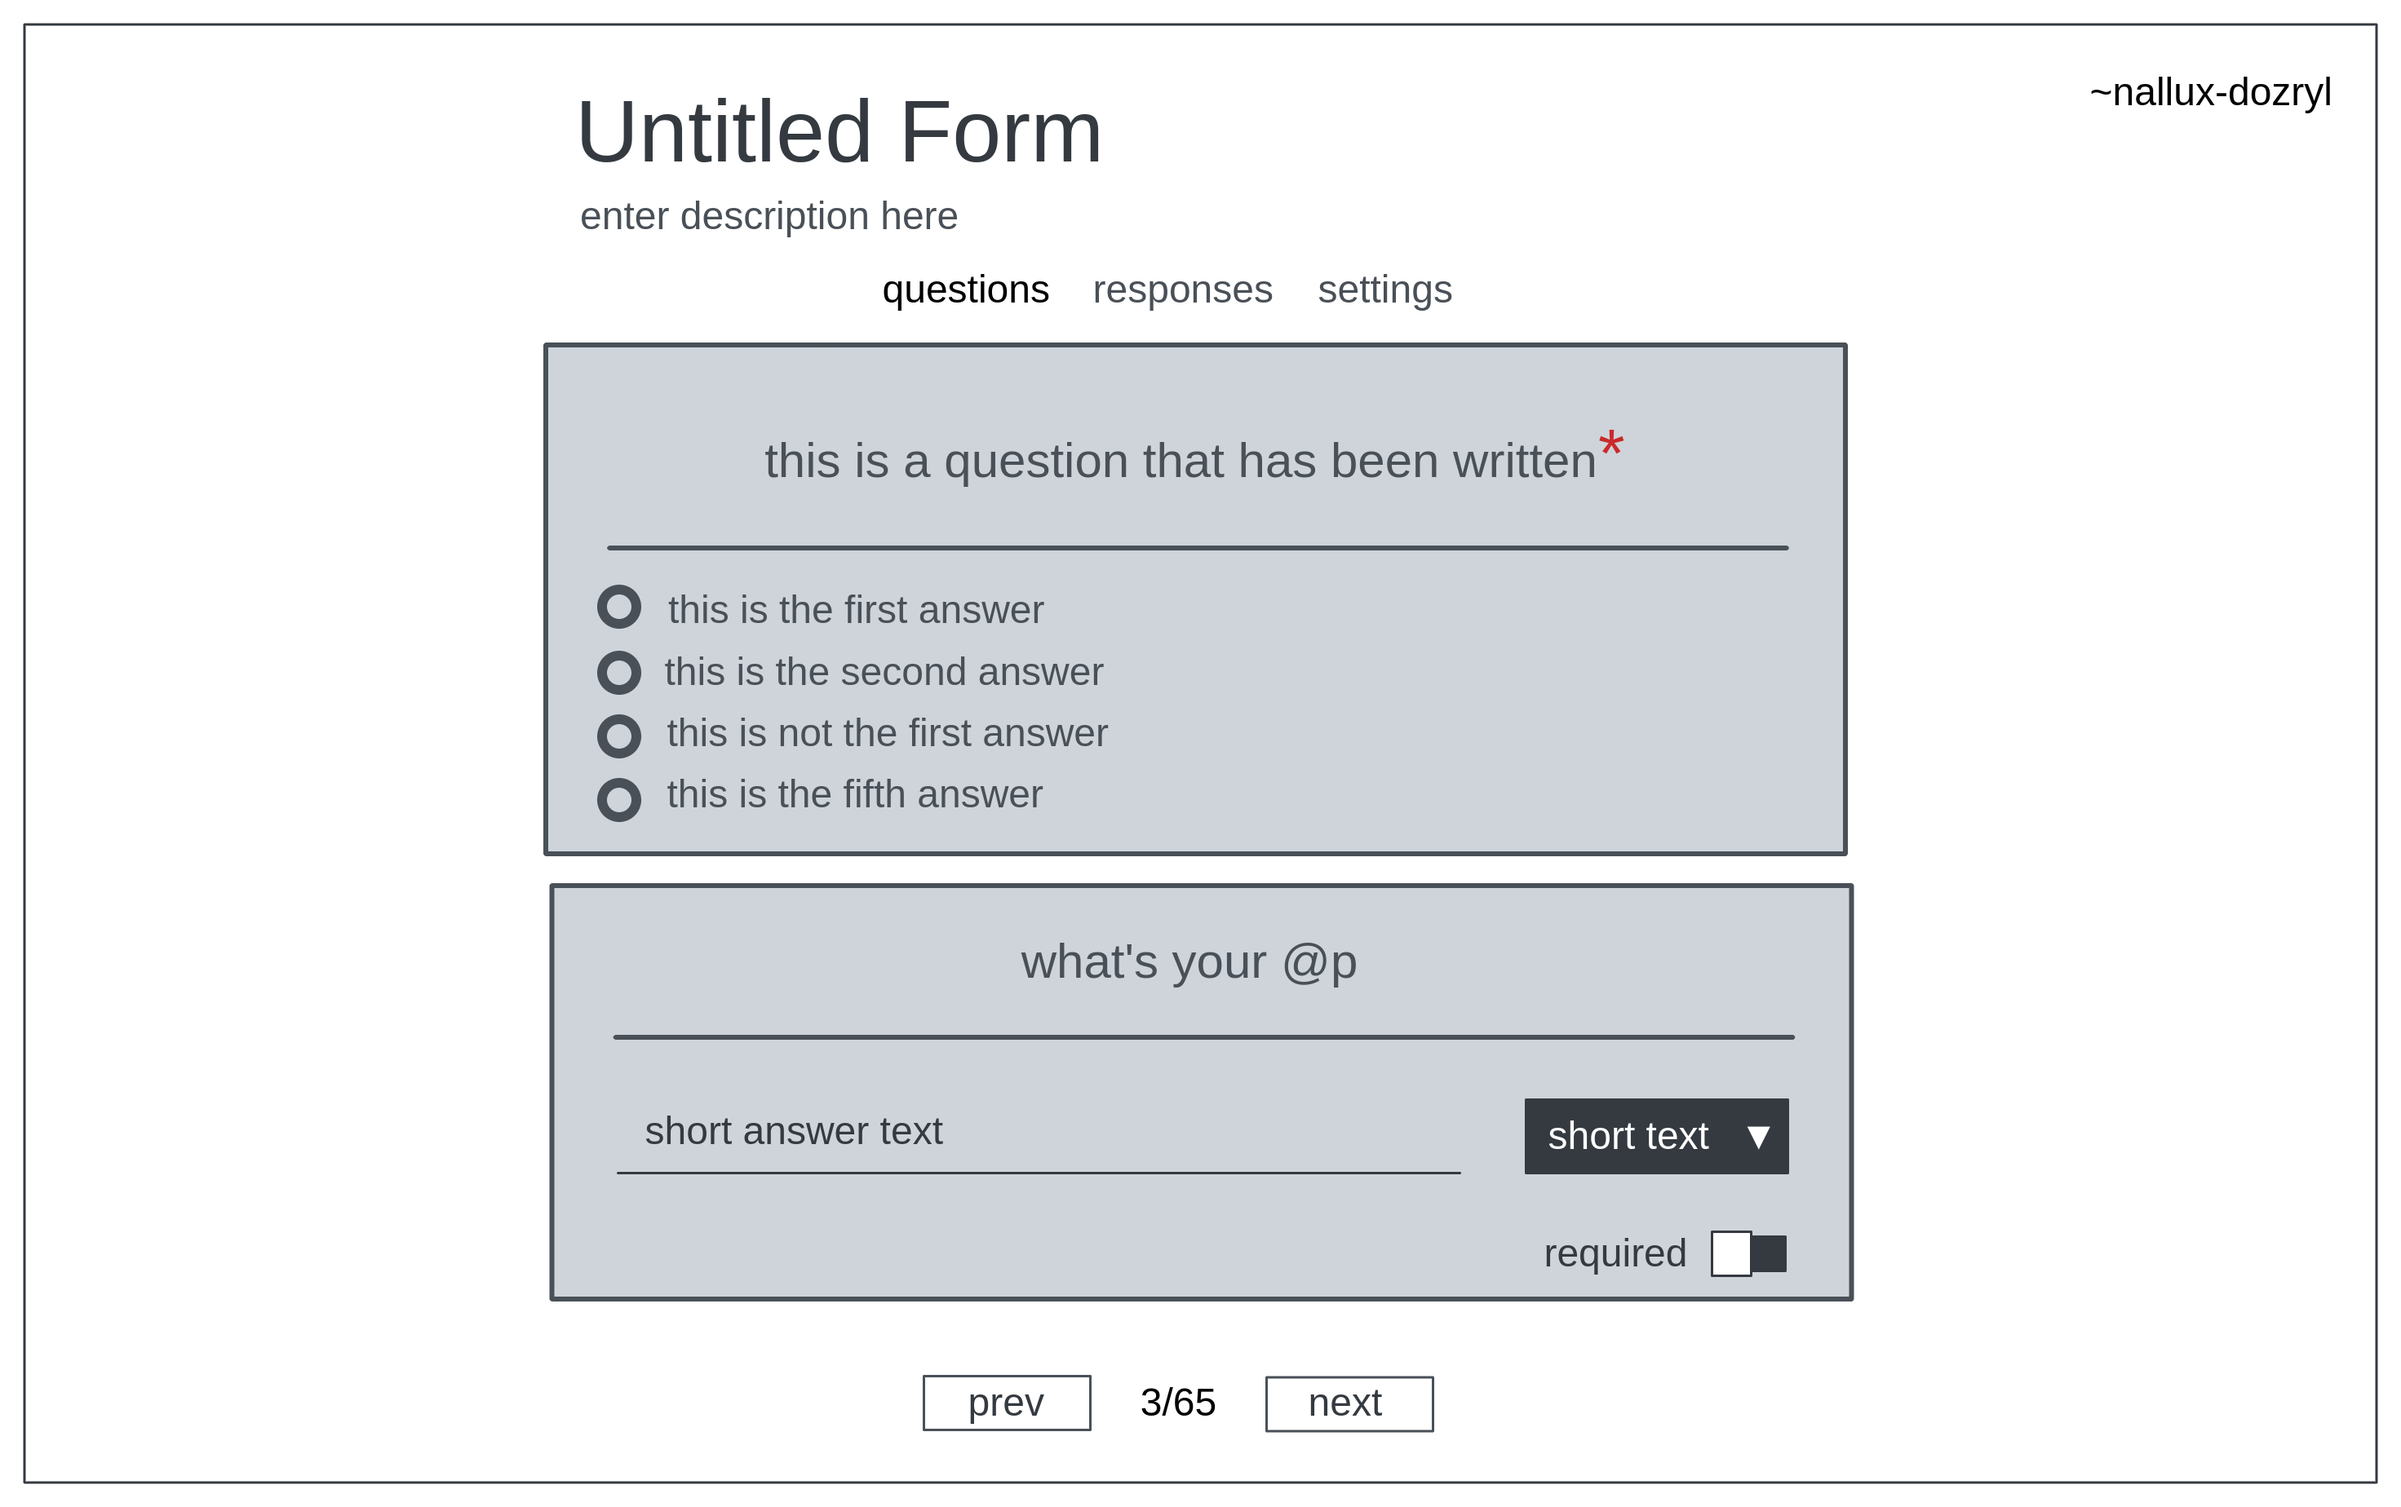
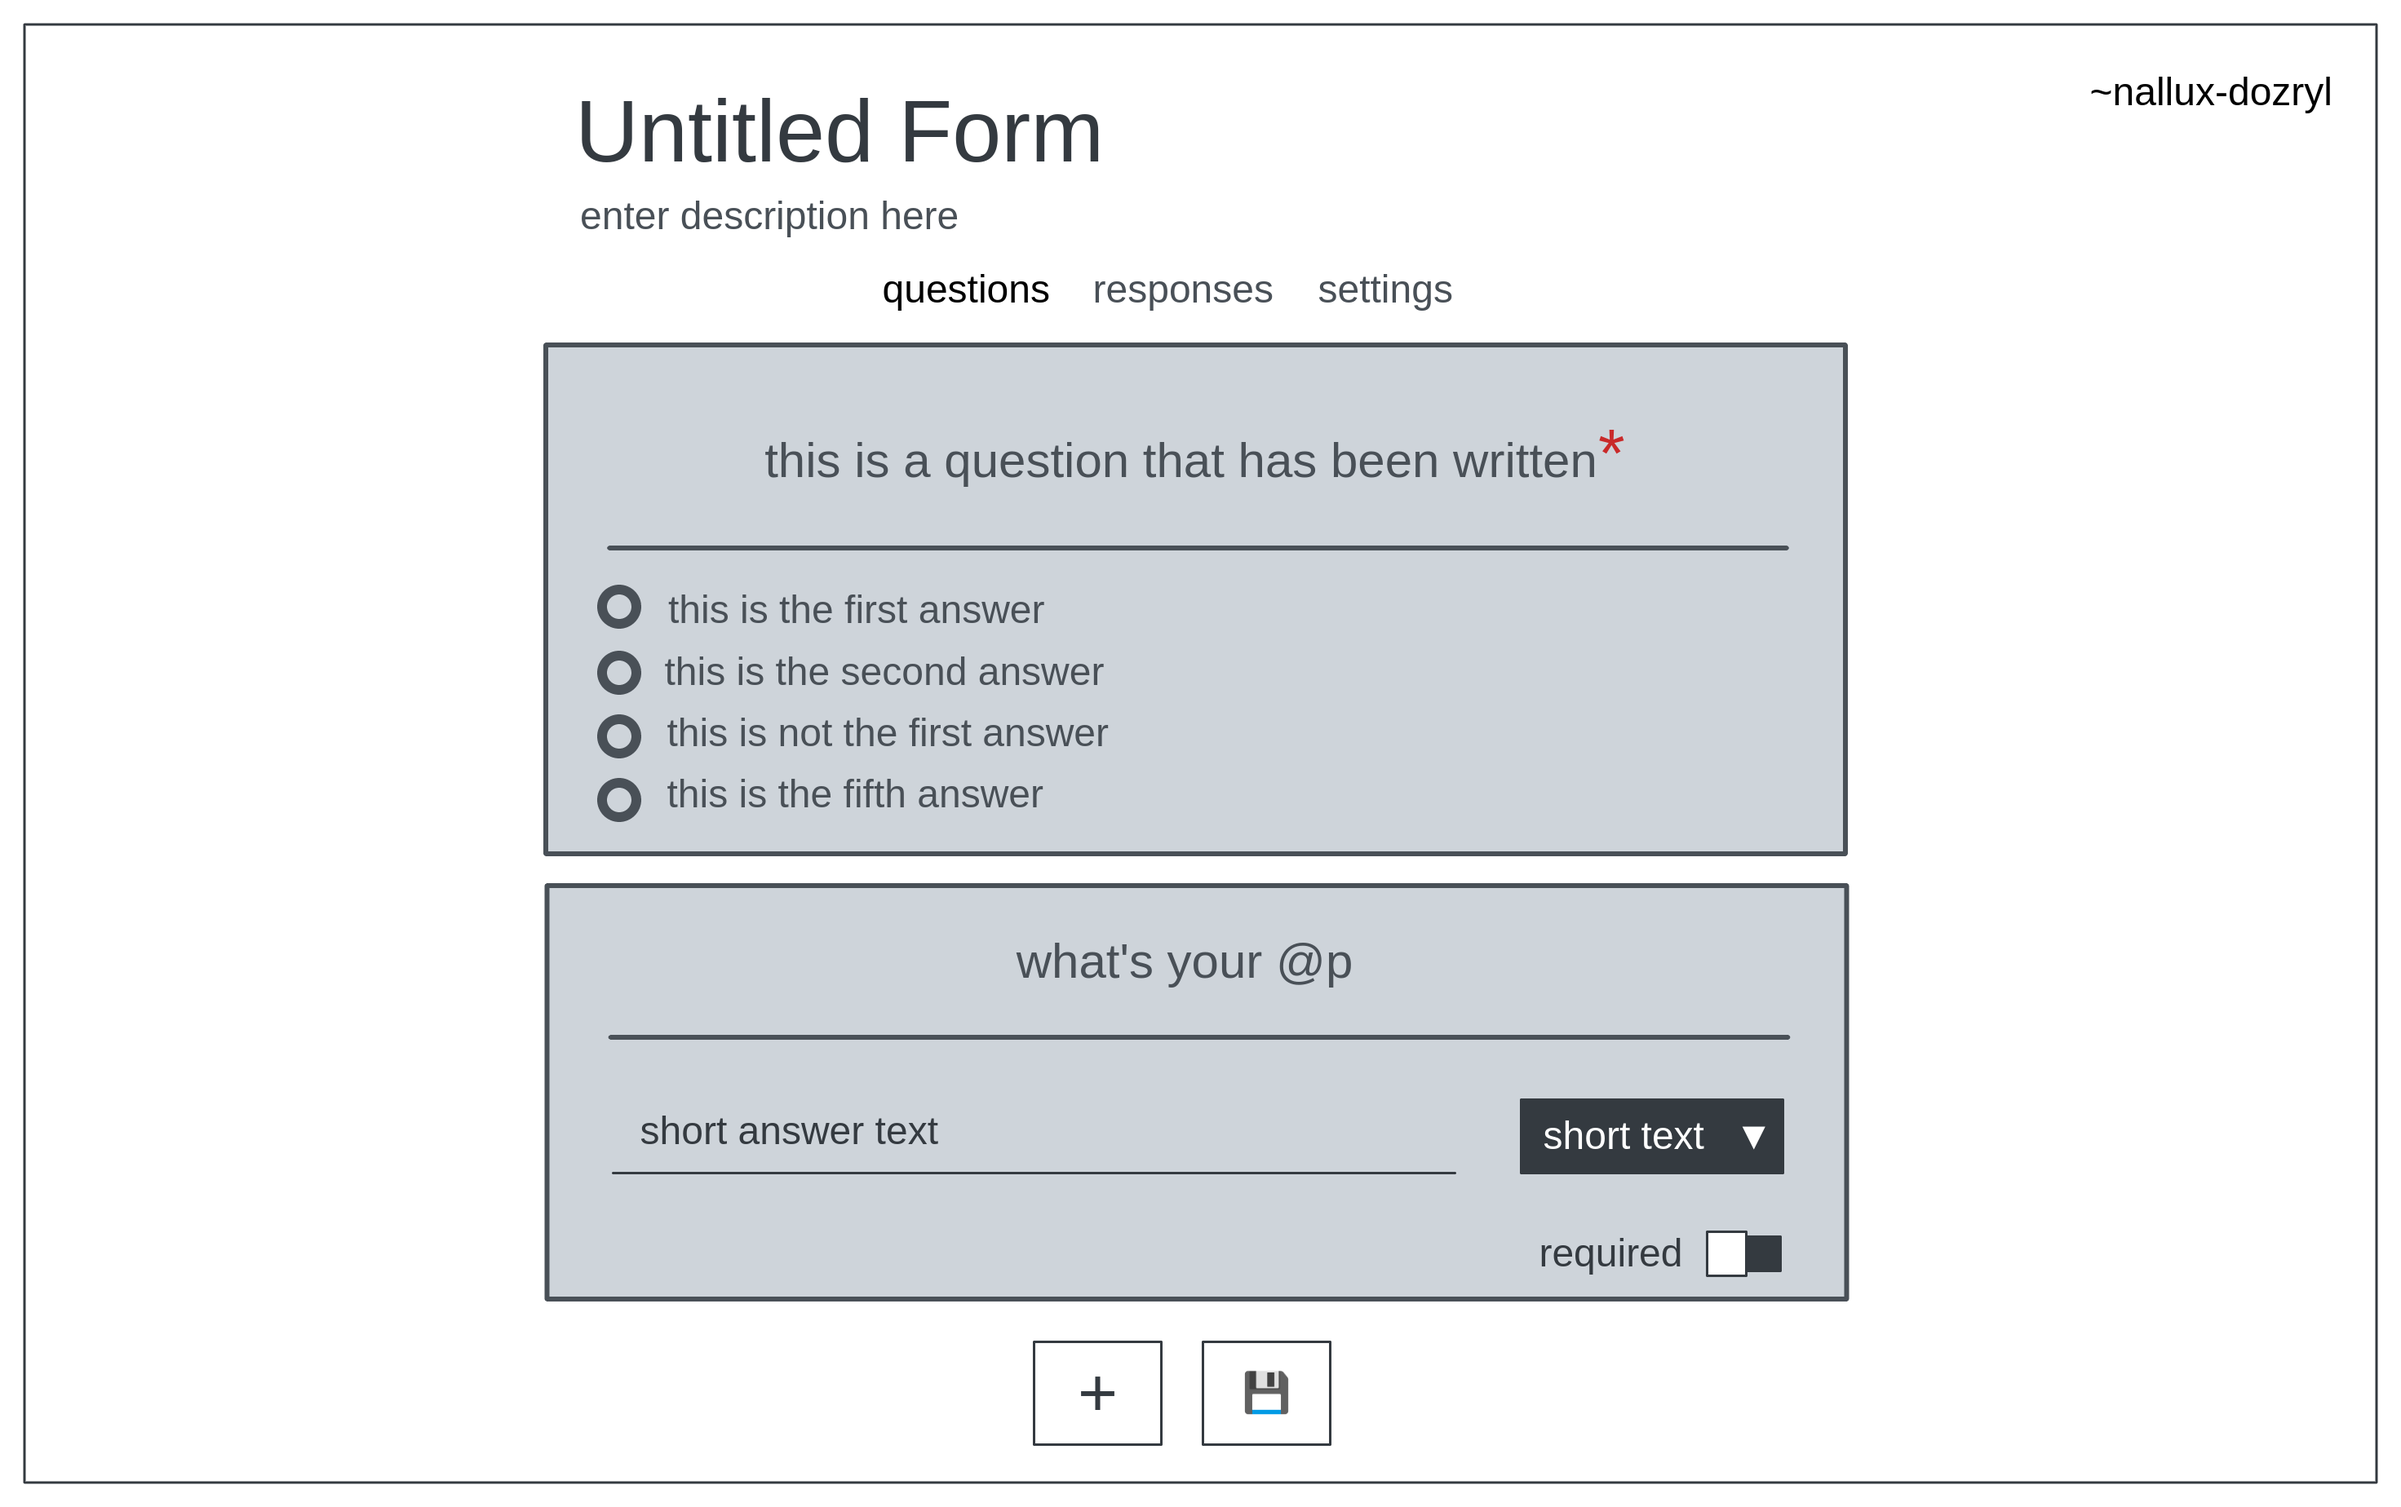
updated README

diff --git a/README.md b/README.md
@@ -139,39 +139,89 @@ _**Note:**_ Result is a noun, this will be used when validation is a thing. Unti
 
 ## View
 
+The term `form` and `survey` will be used interchangably below. This is because the agent uses
+`survey` but the term `form` is more commonly used in the real world.
+
 ### Home Page
 
 When opening the app, you will be greeted by the homepage. On the topmost of the page,
  there is a search bar. This is for requesting a survey from another ship. Below that,
- the list of all the surveys in your survey store is displayed. Each item displays the
- title of the survey as well as a dropdown arrow. Clicking on the item itself will
- open the survey for responding.  
+ is the `+ Create` button. After that, a list of all the surveys in your survey
+ store. Each item displays the title of the survey as well as a dropdown arrow. Clicking
+ on the item itself will open the survey for responding.  
 
-By clicking on the arrow, you will be presented with edit, respond, delete and clone. If you do not own
- the survey, you will not be able to edit it.
+By clicking on the arrow, you will be presented with edit, respond, delete and clone. If you
+ do not own the survey, you will not be able to edit it.
 
 ![homepage](screenshots/homepage.png)
 
 ### New Form
 
+After clicking on the `+ Create` button in the home page, you will be directed to this page.
+ The title and description of the survey will by default `Untitled Form` and
+ `enter description here` respectively. This can be changed.
+
+Next, there are three tabs displayed. The first is this page, `questions`. Then there is
+ `responses` and `settings`.
+
+If there are no questions, only the buttons at the bottom of the screen will show. `+` is for
+ adding a new question, and the floppy disk icon is the save button. Clicking this will update
+ the state of your agent.
+
 ![new-form](screenshots/new-form.png)
-```
-::::::::::::::::::::::::::
-::                      ::
-::  GIANT PLACEHOLDER   ::
-::                      ::
-::::::::::::::::::::::::::
+
+### Responses
+
+Here, we see a similar layout to `New Form`, except the questions do not have options you can
+ change. At the bottom of the screen, there are two buttons indicating `previous` and `next`
+ with numbers showing the current and total reponses in between them. These buttons allow you to
+ cycle between the different responses that have been submitted to you.
+
+![reponses](screenshots/responses.png)
+
+### Settings
+
+This is the settings menu. You get to switch the visibility of the survey and modify the slug of
+ the survey.
+
+![settings](screenshots/settings.png)
+
+### Responding
+
+This is the page you see when you click on any of the surveys in the home page. You will be
+ presented with the title and description of the survey, with the address of the survey next
+ to it.
+
+Below all that are the questions itself. At the bottom of the survey, there is a submit button.
+ Clickng on `submit` will send your response to the author of the survey.
+
+![responding](screenshots/responding.png)
+
 ```
 ## Deliverables and Funding
 
 ### Milestone 1 - 1 Star
-1. Complete core functionality as laid out above.
+1. The agent should be able to
+  - Send, receive, edit and delete surveys.
+  - Submit, receive and delete responses.
+2. A working front-end with the features outlined in the screenshots above.
+3. 9 front end question types
+  - short text
+  - paragraph
+  - multiple choice (select one)
+  - multiple choice (select many)
+  - linear scale (discrete)
+  - linear scale (continuous)
+  - multiple choice grid (select one)
+  - multiple choice grid (select many)
+  - datetime
 
 ### Milestone 2 - 1 Star
-1. Improved GUI
-2. Validation
-3. Multiple editors in one survey
-4. Anonymous survey -- Earth facing mirror
+1. Improved front-end
+2. CSV export
+3. Validation
+4. Multiple editors in one survey
+5. Anonymous survey -- Earth facing mirror
 
 ## Miscellaneous
 
